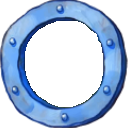
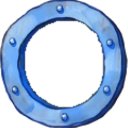
Added masking

diff --git a/index.js b/index.js
@@ -57,6 +57,7 @@ function render(template, img, size, flipH) {
     if (!size.height) imgHeight = imgHeight * size.width / img.width;
   }
 
+  console.log('Drawing template: ', template);
   const anchor = getNumericAnchor(template.anchor, imgWidth, imgHeight);
   console.log('Numeric anchor: ', anchor);
   const xScale = imgWidth / anchor.x.size;
@@ -111,7 +112,8 @@ function render(template, img, size, flipH) {
     h: template.image.height * templateScale,
     w: template.image.width * templateScale,
     name: `template ${template.src}`,
-    flipH
+    flipH,
+    attributes: template.attributes
   }].sort((u, v) => u.z > v.z);
 
   const canvas = new CanvasEx(resultingWidth, resultingHeight);
@@ -125,7 +127,9 @@ function render(template, img, size, flipH) {
         transform.translate = [resultingWidth, 0];
         transform.scale = [-1, 1];
       }
-      canvas.drawImage(subject.image, subject.x, subject.y, { width: subject.w, height: subject.h, transform });
+      canvas.drawImage(subject.image, subject.x, subject.y, {
+        width: subject.w, height: subject.h, transform, attributes: subject.attributes
+      });
     } catch (err) {
       console.error(err);
       throw new Error(JSON.stringify({ status: 400, error: 'Invalid template' }));

diff --git a/imageex.js b/imageex.js
@@ -29,18 +29,26 @@ function loadFromUri(uri) {
 }
 
 function _drawImage(ctx, img, x, y, args = {}) {
-  if (args.transform) {
+  if (args.transform || args.attributes) {
     ctx.save();
-    _.each(args.transform, (val, prop) => {
-      ctx[prop](...val);
-    });
+    if (args.transform) {
+      _.each(args.transform, (val, prop) => {
+        ctx[prop](...val);
+      });
+    }
+    if (args.attributes) {
+      _.each(args.attributes, (val, prop) => {
+        console.log(`Setting ${prop } to ${val}`);
+        ctx[prop] = val;
+      });
+    }
   }
   if (args.sx !== undefined || args.sy !== undefined || args.swidth !== undefined || args.sheight !== undefined) {
     ctx.drawImage(img, args.sx, args.sy, args.swidth, args.sheight, x, y, args.width || args.swidth, args.height || args.sheight);
   } else {
     ctx.drawImage(img, x, y, args.width, args.height);
   }
-  if (args.transform) {
+  if (args.transform || args.attributes) {
     ctx.restore();
   }
 }
